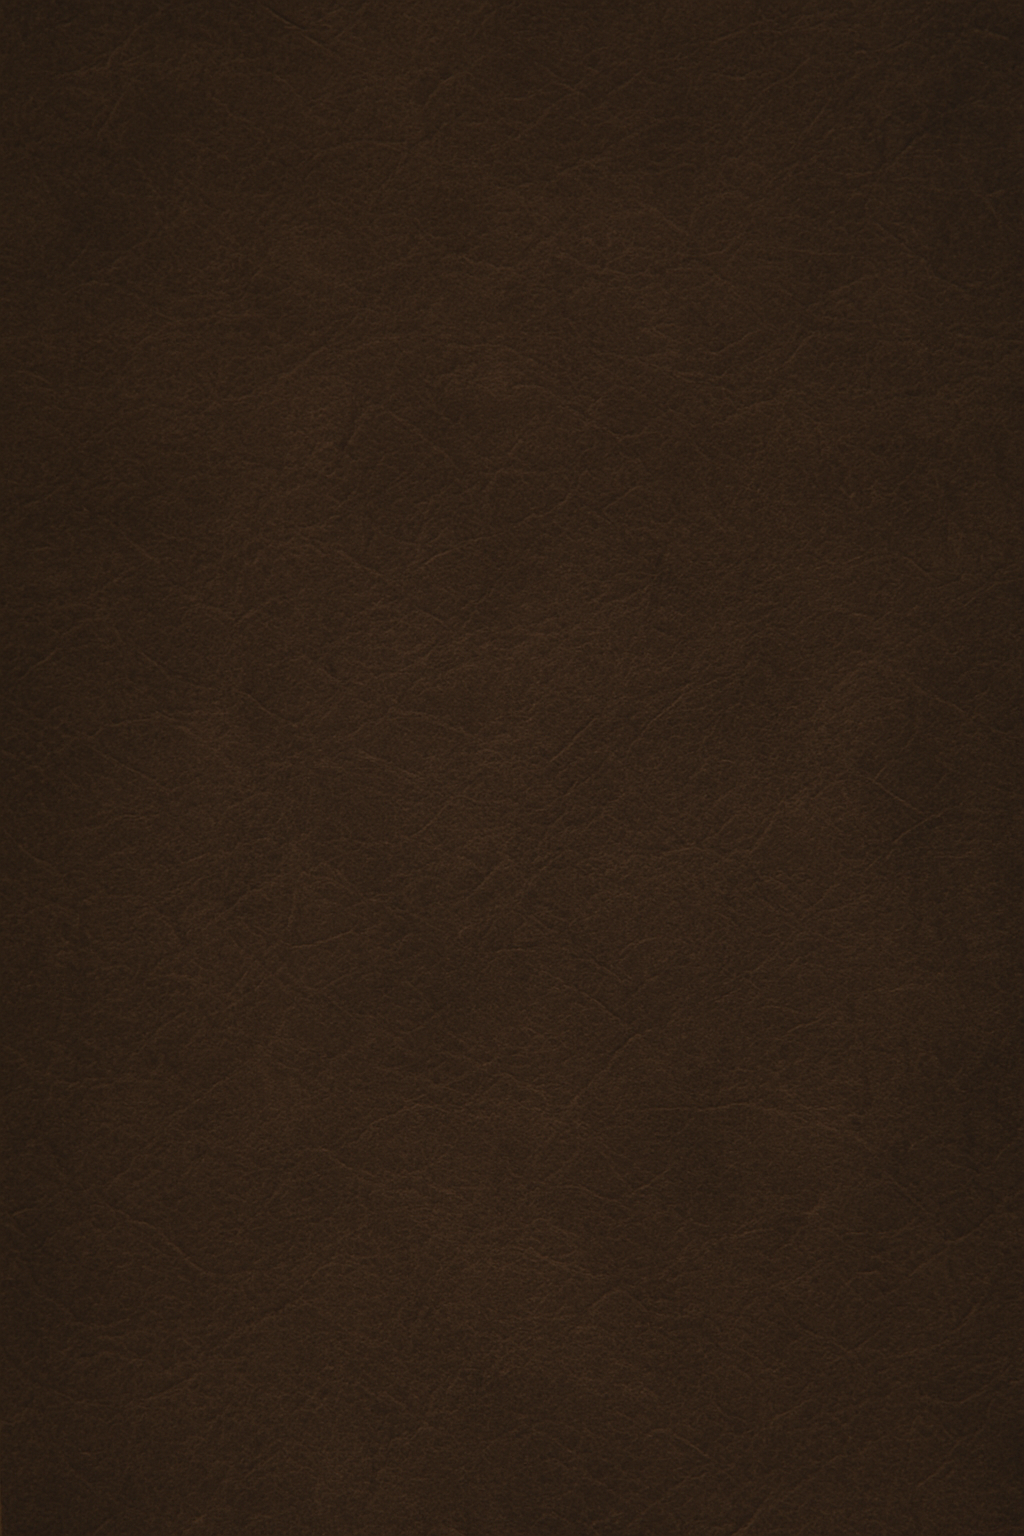
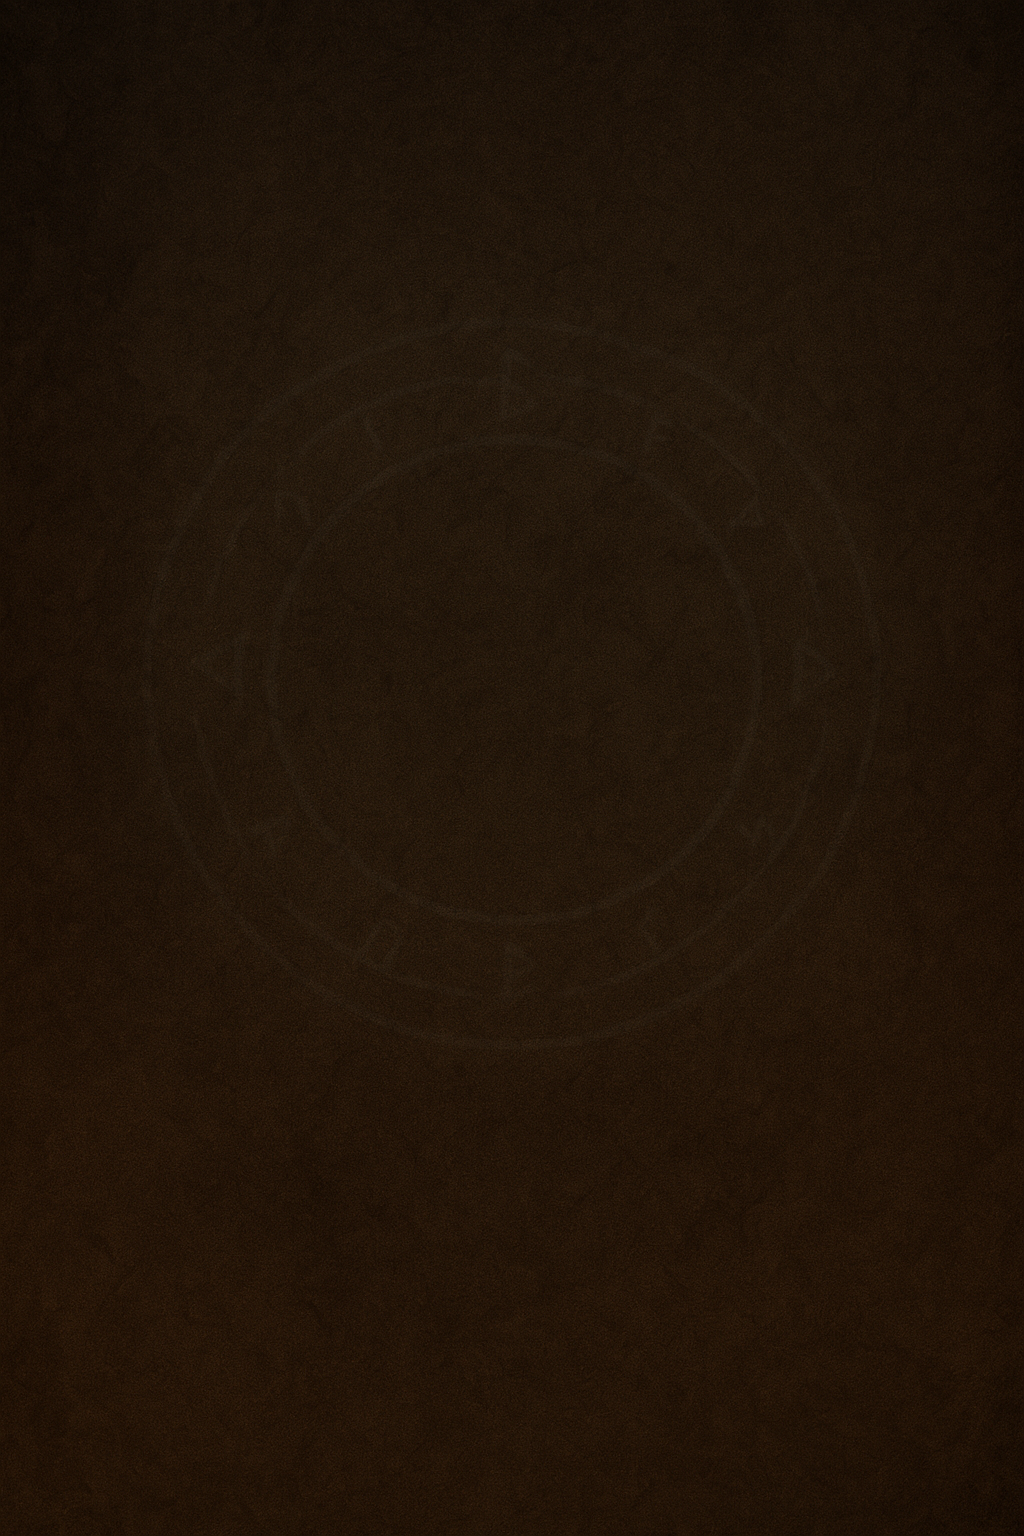
Add new intro background

diff --git a/app/auth/intro.tsx b/app/auth/intro.tsx
@@ -1,11 +1,11 @@
 import styles from '@/app/auth/intro.styles';
 import { useSession } from '@/auth/hooks/useSession';
-import React, { useEffect, useRef, useState } from 'react';
-import { Animated, Easing, Text, View } from 'react-native';
 import IntroLoginPanel from '@/components/auth/IntroLoginPanel';
 import AnimatedLogo from '@/components/ui/AnimatedLogo';
 import AppButton from '@/components/ui/AppButton';
 import LoadingAnimation from '@/components/ui/LoadingAnimation';
+import React, { useEffect, useRef, useState } from 'react';
+import { Animated, ImageBackground, Text, View } from 'react-native';
 
 const IntroScreen = () => {
     const { isLoading, error, loadSession } = useSession();
@@ -33,27 +33,35 @@ const IntroScreen = () => {
     }, [isLoading]);
 
     return (
-        <View style={styles.container}>
-            <AnimatedLogo />
-            <View style={styles.transitionContainer}>
-                {error ? (
-                    <View style={styles.errorBox}>
-                        <Text style={styles.errorText}>
-                            {error === 'network'
-                                ? 'Cannot connect to server.'
-                                : 'An unexpected error occurred.'}
-                        </Text>
-                        <AppButton onPress={loadSession}>Retry</AppButton>
-                    </View>
-                ) : !showLogin ? (
-                    <LoadingAnimation />
-                ) : (
-                    <Animated.View style={{ opacity: fadeAnim, width: '100%' }}>
-                        <IntroLoginPanel />
-                    </Animated.View>
-                )}
+        <ImageBackground
+            source={require('@/assets/images/dark_leather.png')}
+            style={{ flex: 1 }}
+            imageStyle={{ resizeMode: 'cover' }}
+        >
+            <View style={styles.container}>
+                <View style={{ marginTop: 100 }}>
+                    <AnimatedLogo />
+                </View>
+                <View style={styles.transitionContainer}>
+                    {error ? (
+                        <View style={styles.errorBox}>
+                            <Text style={styles.errorText}>
+                                {error === 'network'
+                                    ? 'Cannot connect to server.'
+                                    : 'An unexpected error occurred.'}
+                            </Text>
+                            <AppButton onPress={loadSession}>Retry</AppButton>
+                        </View>
+                    ) : !showLogin ? (
+                        <LoadingAnimation />
+                    ) : (
+                        <Animated.View style={{ opacity: fadeAnim, width: '100%' }}>
+                            <IntroLoginPanel />
+                        </Animated.View>
+                    )}
+                </View>
             </View>
-        </View>
+        </ImageBackground>
     );
 };
 

diff --git a/app/auth/_layout.tsx b/app/auth/_layout.tsx
@@ -1,10 +1,10 @@
-import { View } from 'react-native';
 import { Slot } from 'expo-router';
+import { View } from 'react-native';
 import { SafeAreaView } from 'react-native-safe-area-context';
 
 export default function AuthLayout() {
     return (
-        <SafeAreaView style={{ flex: 1, backgroundColor: '#111' }}>
+        <SafeAreaView style={{ flex: 1, backgroundColor: 'transparent' }}>
             <View style={{ flex: 1 }}>
                 <Slot />
             </View>

diff --git a/app/auth/intro.styles.ts b/app/auth/intro.styles.ts
@@ -6,7 +6,7 @@ const styles = StyleSheet.create({
         alignItems: 'center',
         justifyContent: 'center',
         position: 'relative',
-        backgroundColor: '#000',
+        backgroundColor: 'transparent',
     },
     logo: {
         width: 200,
